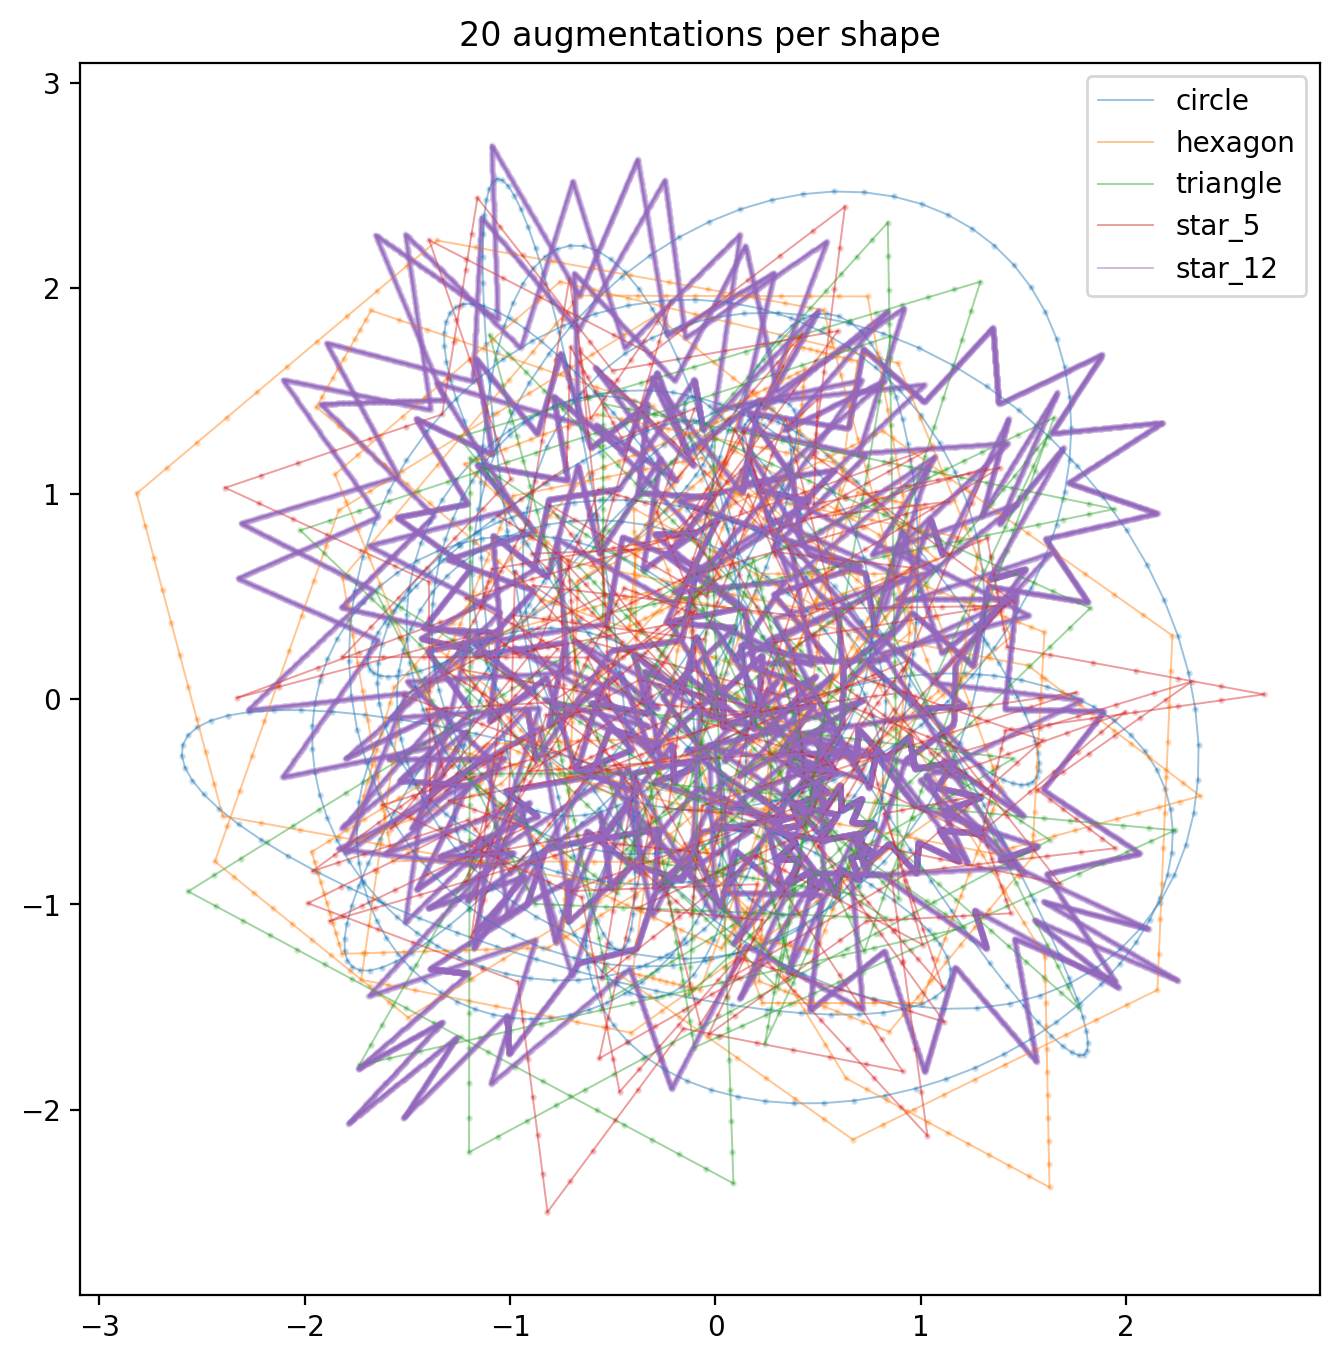
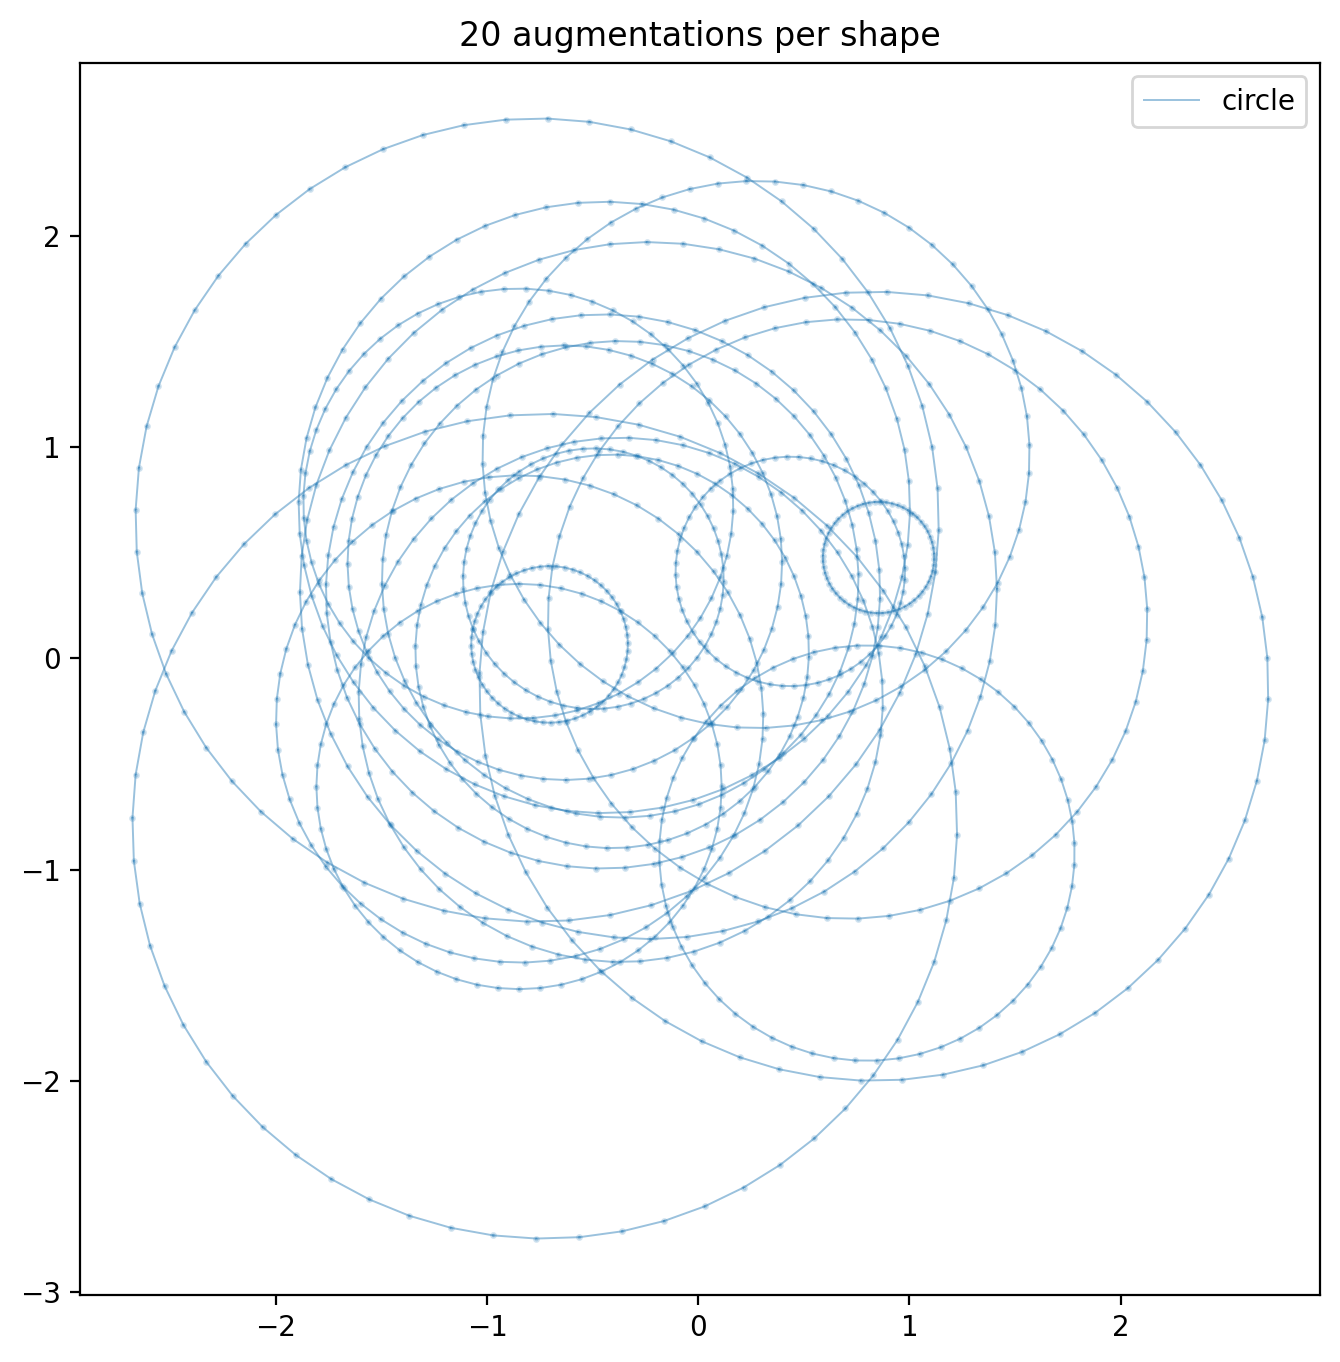
circle dataset, not ellipse

diff --git a/data_generation/generate.py b/data_generation/generate.py
@@ -1,7 +1,7 @@
 from abc import ABC, abstractmethod
 import numpy as np
 import matplotlib.pyplot as plt
-from omegaconf import DictConfig
+from omegaconf import DictConfig, OmegaConf
 import hydra  
 
 import os
@@ -477,6 +477,10 @@ class ShapeGenerator:
             dtype,
         )
 
+        isotropic_scale = bool(
+            self._cfg_get(transform_cfg, "isotropic_scale", False)
+        )
+
         scale_x = self._uniform(
             s_lo,
             s_hi,
@@ -486,14 +490,17 @@ class ShapeGenerator:
             dtype,
         )
 
-        scale_y = self._uniform(
-            s_lo,
-            s_hi,
-            (batch_size,),
-            generator,
-            device,
-            dtype,
-        )
+        if isotropic_scale:
+            scale_y = scale_x
+        else:
+            scale_y = self._uniform(
+                s_lo,
+                s_hi,
+                (batch_size,),
+                generator,
+                device,
+                dtype,
+            )
 
         angle_deg = self._uniform(
             r_lo,
@@ -820,13 +827,8 @@ def main(cfg: DictConfig):
     print("Generating shapes with the following configuration:")
     print(cfg)
 
-    shapes = {
-        "circle": {"shape": "circle", "num_points": 60, "percentage": 0.30},
-        "hexagon": {"shape": "hexagon", "num_points": 60, "percentage": 0.25},
-        "triangle": {"shape": "triangle", "num_points": 60, "percentage": 0.20},
-        "star_5": {"shape": "star", "num_points": 60, "n_tips": 5, "inner_radius": 0.45, "percentage": 0.15},
-        "star_12": {"shape": "star", "num_points": 2500, "n_tips": 12, "inner_radius": 0.6, "percentage": 0.10},
-    }
+    shapes = OmegaConf.to_container(cfg.dataset.shapes, resolve=True)
+    transform_cfg = cfg.dataset.transform
 
     shape_generator = ShapeGenerator()
 
@@ -847,7 +849,7 @@ def main(cfg: DictConfig):
 
     preview_batch = shape_generator.generate_mixture_batch_torch(
         shapes=shapes,
-        transform_cfg=cfg,
+        transform_cfg=transform_cfg,
         samples_per_shape=preview_samples_per_shape,
         seed=seed,
         device=device,
@@ -867,7 +869,7 @@ def main(cfg: DictConfig):
 
     manifest = shape_generator.generate_to_disk_torch(
         shapes=shapes,
-        transform_cfg=cfg,
+        transform_cfg=transform_cfg,
         out_dir=out_dir,
         N=dataset_N,
         batch_size=batch_size,

diff --git a/rlmd/data/generation.py b/rlmd/data/generation.py
@@ -474,6 +474,10 @@ class ShapeGenerator:
             dtype,
         )
 
+        isotropic_scale = bool(
+            self._cfg_get(transform_cfg, "isotropic_scale", False)
+        )
+
         scale_x = self._uniform(
             s_lo,
             s_hi,
@@ -483,14 +487,17 @@ class ShapeGenerator:
             dtype,
         )
 
-        scale_y = self._uniform(
-            s_lo,
-            s_hi,
-            (batch_size,),
-            generator,
-            device,
-            dtype,
-        )
+        if isotropic_scale:
+            scale_y = scale_x
+        else:
+            scale_y = self._uniform(
+                s_lo,
+                s_hi,
+                (batch_size,),
+                generator,
+                device,
+                dtype,
+            )
 
         angle_deg = self._uniform(
             r_lo,

diff --git a/scripts/generate.py b/scripts/generate.py
@@ -1,7 +1,7 @@
 import hydra
 import matplotlib.pyplot as plt
 import torch
-from omegaconf import DictConfig
+from omegaconf import DictConfig, OmegaConf
 
 from rlmd.data.generation import ShapeGenerator
 
@@ -11,13 +11,8 @@ def main(cfg: DictConfig):
     print("Generating shapes with the following configuration:")
     print(cfg)
 
-    shapes = {
-        "circle": {"shape": "circle", "num_points": 60, "percentage": 0.30},
-        "hexagon": {"shape": "hexagon", "num_points": 60, "percentage": 0.25},
-        "triangle": {"shape": "triangle", "num_points": 60, "percentage": 0.20},
-        "star_5": {"shape": "star", "num_points": 60, "n_tips": 5, "inner_radius": 0.45, "percentage": 0.15},
-        "star_12": {"shape": "star", "num_points": 2500, "n_tips": 12, "inner_radius": 0.6, "percentage": 0.10},
-    }
+    shapes = OmegaConf.to_container(cfg.dataset.shapes, resolve=True)
+    transform_cfg = cfg.dataset.transform
 
     shape_generator = ShapeGenerator()
 
@@ -38,7 +33,7 @@ def main(cfg: DictConfig):
 
     preview_batch = shape_generator.generate_mixture_batch_torch(
         shapes=shapes,
-        transform_cfg=cfg,
+        transform_cfg=transform_cfg,
         samples_per_shape=preview_samples_per_shape,
         seed=seed,
         device=device,
@@ -58,7 +53,7 @@ def main(cfg: DictConfig):
 
     manifest = shape_generator.generate_to_disk_torch(
         shapes=shapes,
-        transform_cfg=cfg,
+        transform_cfg=transform_cfg,
         out_dir=out_dir,
         N=dataset_N,
         batch_size=batch_size,